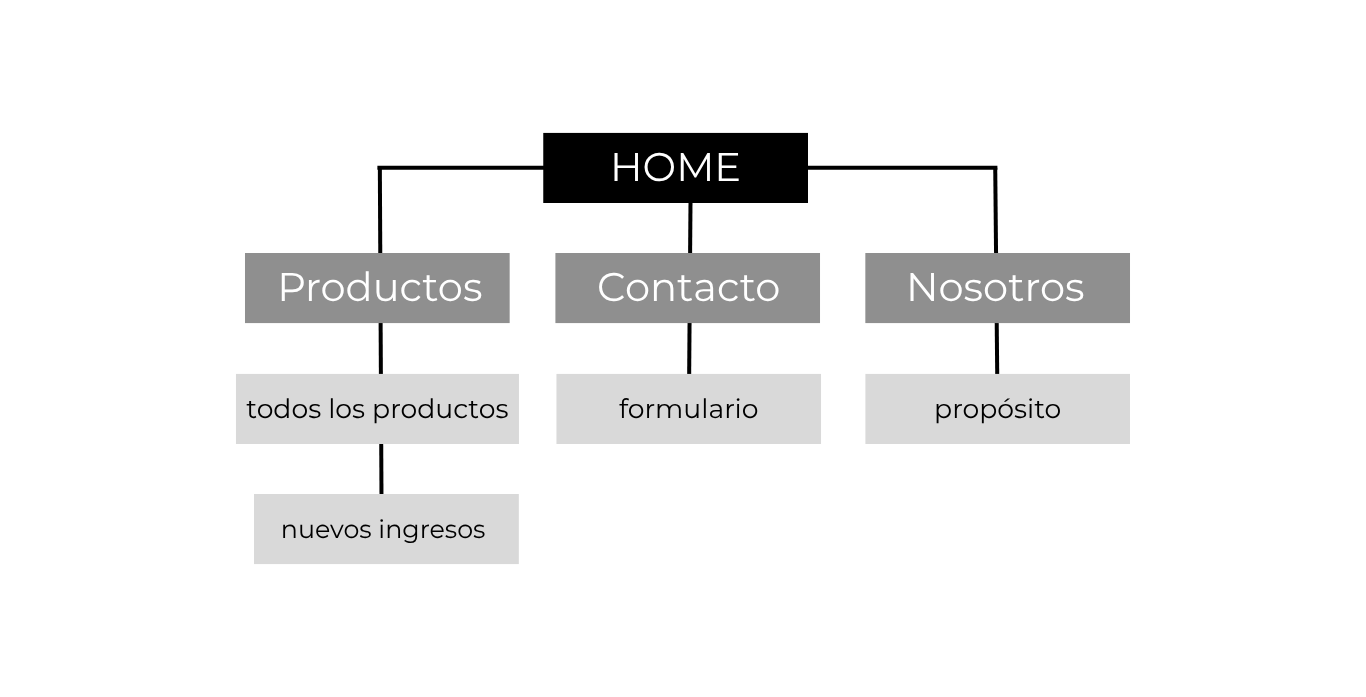
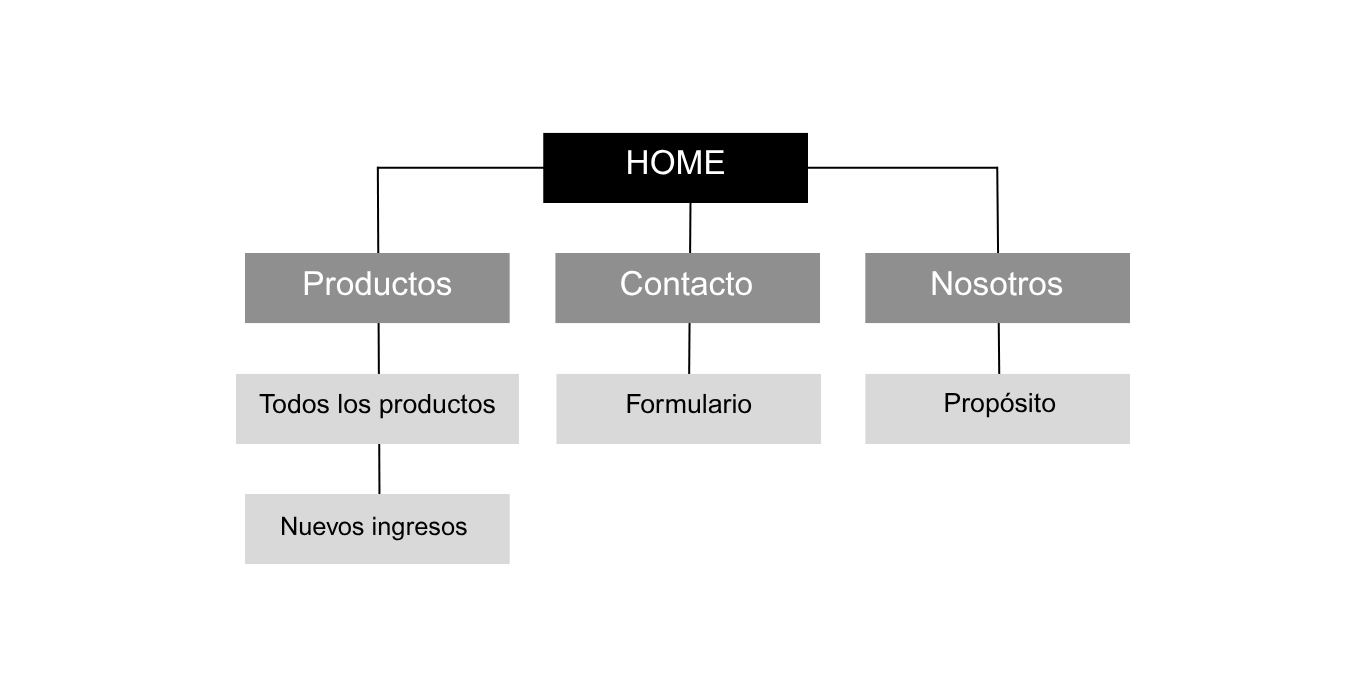
Add files via upload

diff --git a/index.html b/index.html
@@ -19,7 +19,7 @@
   </div>
 
   <div class="presentacion" id="placa2">
-    <h2 class="titulo">Diseño y fundamentación</h2>
+    <h2 class="titulo">Diseño</h2>
     <h3>Tipografía</h3>
     <p>font-family: Arial, sans-serif</p>
     <h3>Paleta de colores</h3>
@@ -56,8 +56,18 @@
       </thead>
       <tbody>
         <tr>
+          <td style="border: 2px solid #8f8f8f; padding: 10px;">Diseño visual</td>
+          <td style="border: 2px solid #8f8f8f; padding: 10px;">Identiddad visual + Prototipado</td>
+          <td style="border: 2px solid #8f8f8f; padding: 10px;">$200.000</td>
+        </tr>
+        <tr>
+          <td style="border: 2px solid #8f8f8f; padding: 10px;">Desarrollo web</td>
+          <td style="border: 2px solid #8f8f8f; padding: 10px;">Maquetación HTML y CSS</td>
+          <td style="border: 2px solid #8f8f8f; padding: 10px;">$300.000</td>
+        </tr>
+        <tr>
           <td style="border: 2px solid #8f8f8f; padding: 10px;">Dominio (.com.ar)</td>
-          <td style="border: 2px solid #8f8f8f; padding: 10px;">Registro anual (NIC Argentina)</td>
+          <td style="border: 2px solid #8f8f8f; padding: 10px;">Registro (NIC Argentina)</td>
           <td style="border: 2px solid #8f8f8f; padding: 10px;">$8.500,00/año</td>
         </tr>
         <tr>
@@ -65,18 +75,12 @@
           <td style="border: 2px solid #8f8f8f; padding: 10px;">Plan básico (Towebs)</td>
           <td style="border: 2px solid #8f8f8f; padding: 10px;">
             $3.499,01/mes<br>
-            o $37.789,26/año
-          </td>
-        </tr>
-        <tr>
-          <td style="border: 2px solid #8f8f8f; padding: 10px;">Publicación del sitio</td>
-          <td style="border: 2px solid #8f8f8f; padding: 10px;">Autogestionada</td>
-          <td style="border: 2px solid #8f8f8f; padding: 10px;">$0</td>
+            o $37.789,26/año</td>
         </tr>
       </tbody>
     </table>
   
-    <p style="font-size: 20px; font-weight: bold; margin-top: 20px;">Total aproximado anual: $46.289,26</p>
+    <p style="font-size: 20px; font-weight: bold; margin-top: 20px;">Total aproximado anual: $546.289,26</p>
   </div>
 
   <div class="presentacion" id="placa6">

diff --git a/estilos.css b/estilos.css
@@ -22,7 +22,7 @@ body {
   padding: 50px 80px;
   border-radius: 12px;
   box-shadow: 0 8px 16px rgba(0, 0, 0, 0.1);
-  background: #f8d4bb ;
+  background: #fce9dc ;
   text-align: center;
   border: 10px solid #8f8f8f;
 }
